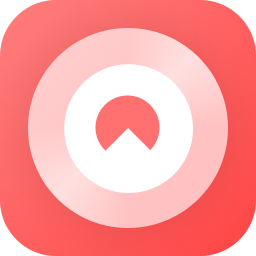
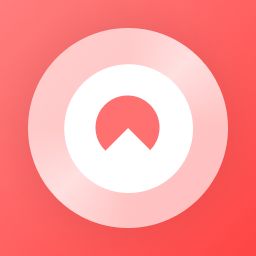
Update assets

diff --git a/pages/index.tsx b/pages/index.tsx
@@ -36,7 +36,7 @@ function Main() {
         <nav className="flex items-center" aria-label="Global">
           <div className="flex items-stretch justify-between lg:flex-1">
             <div className="flex items-center -m-1.5 p-1.5">
-              <Image className="h-10 w-10" src={icon} alt="App Icon" />
+              <Image className="h-10 w-10 rounded-lg" src={icon} alt="App Icon" />
               <span className="text-rose-500 text-xl font-bold mx-2">
                 Lofyee
               </span>
